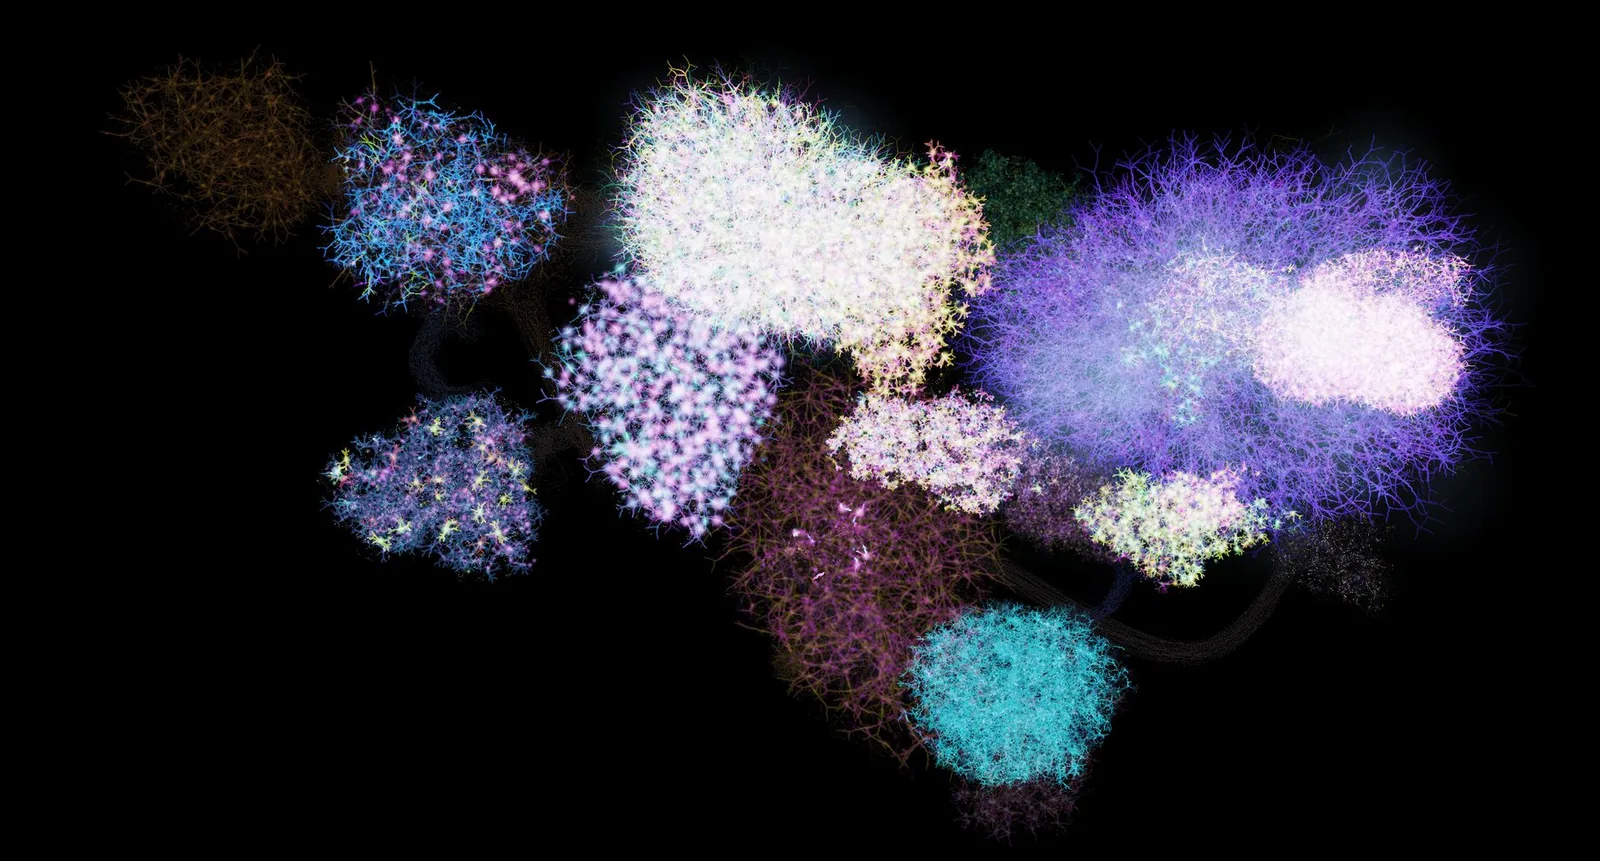
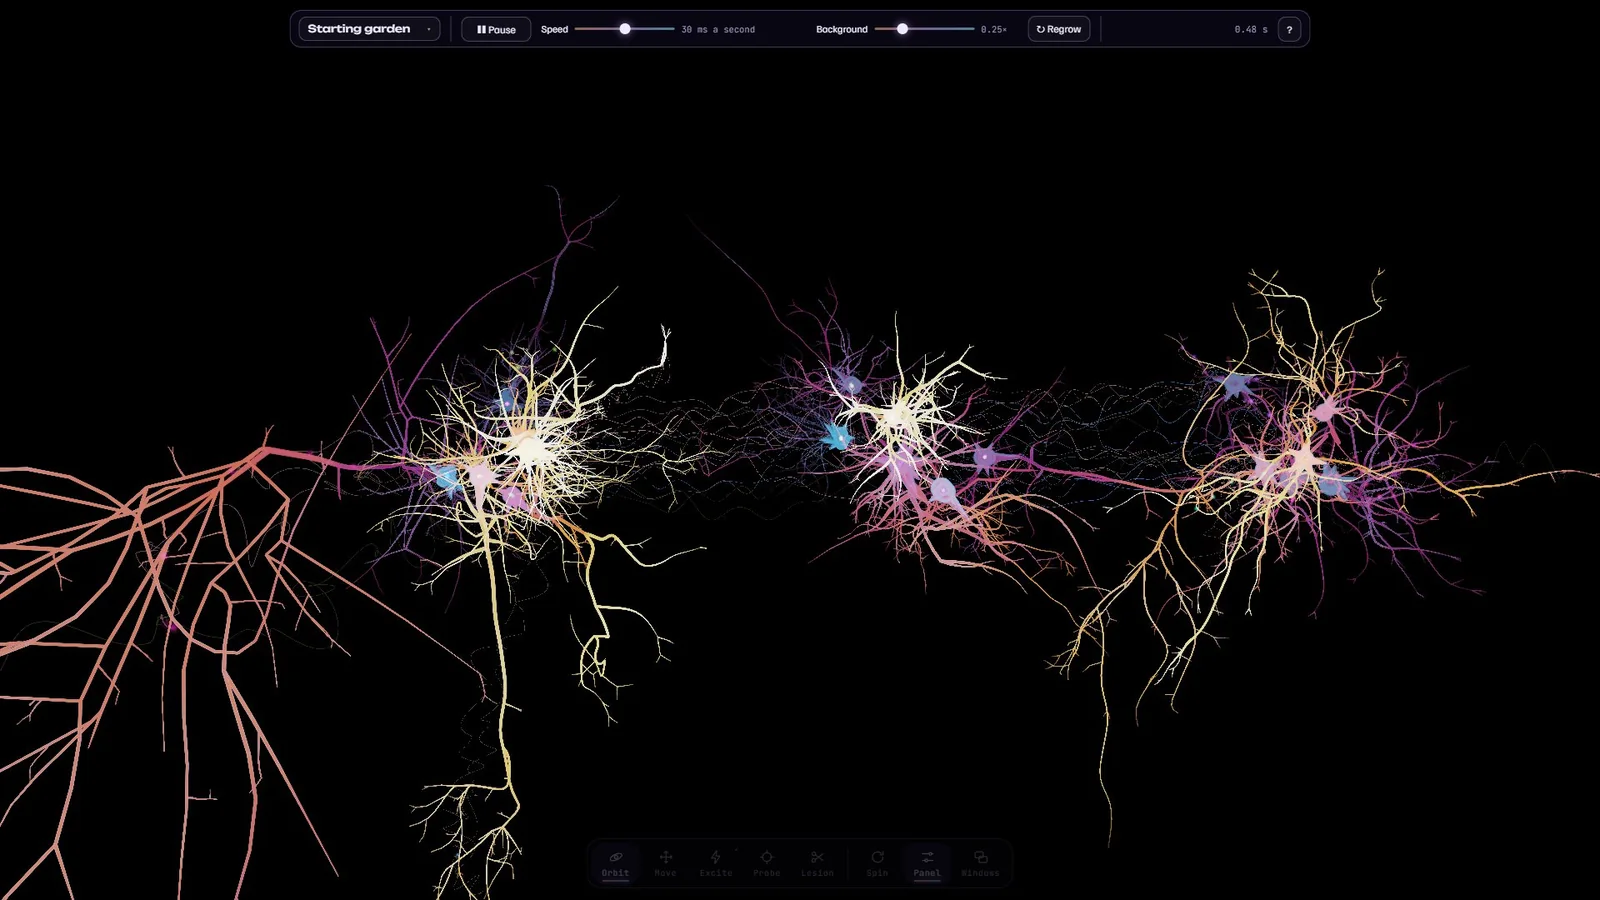
Dendrite Garden: new description, images and manual link for the channel-neuron garden

diff --git a/index.html b/index.html
@@ -151,17 +151,17 @@ footer a { color: var(--muted); }
     <!-- ============================================================ Dendrite Garden -->
     <article class="project" id="dendrite">
       <div class="media">
-        <a class="main" href="https://gsnautilus.github.io/dendrite-garden/"><figure class="main cover"><img src="img/dendrite-hero.webp" alt="Thousands of glowing neurons with branching dendrites in Cortex Garden" width="1600" height="861"></figure></a>
-        <figure class="cover"><img src="img/dendrite-cortex.webp" alt="A dense field of spiking neurons" loading="lazy" width="720" height="450"></figure>
-        <figure class="cover"><img src="img/dendrite-tadpole.webp" alt="The Tadpole, a 30,000-neuron specimen" loading="lazy" width="720" height="450"></figure>
+        <a class="main" href="https://gsnautilus.github.io/dendrite-garden/"><figure class="main cover"><img src="img/dendrite-hero.webp" alt="Three groups of neurons with branching dendrites, coloured by their voltage" width="1600" height="900"></figure></a>
+        <figure class="cover"><img src="img/dendrite-patch.webp" alt="A patch of mouse visual cortex: a column of 1,827 neurons" loading="lazy" width="720" height="540"></figure>
+        <figure class="cover"><img src="img/dendrite-interface.webp" alt="The garden's interface: groups wired together as nodes, beside the running neurons" loading="lazy" width="720" height="540"></figure>
       </div>
       <div class="text">
         <p class="kicker mono">Simulation · WebGPU</p>
         <h3>Dendrite Garden</h3>
-        <p>Dendrite Garden is an interactive, visual simulator of spiking neurons that runs in the browser. It simulates 5,000 to 100,000 neurons on the GPU, each with branching dendrites of up to 31 compartments. Synapses form where an axon passes close to a dendrite, and they strengthen, weaken and rewire while the network runs. One network, the Tadpole, has 30,000 neurons wired so that it swims, feeds and learns.</p>
+        <p>Dendrite Garden is an interactive, visual simulator of neurons that runs in the browser on the graphics card. Each neuron has a dendrite tree grown from reconstructions of real mouse neurons, and a membrane with ion channels taken from published recordings. You build groups of neurons, wire them together, and change anything while they run. One preset builds a patch of mouse visual cortex with 1,827 neurons.</p>
         <div class="links">
           <a class="primary" href="https://gsnautilus.github.io/dendrite-garden/">▶ Open the garden</a>
-          <a href="https://gsnautilus.github.io/dendrite-garden/tadpole/">The Tadpole</a>
+          <a href="https://gsnautilus.github.io/dendrite-garden/manual.html">Manual</a>
           <a href="https://github.com/GSNautilus/dendrite-garden">Source</a>
         </div>
       </div>
